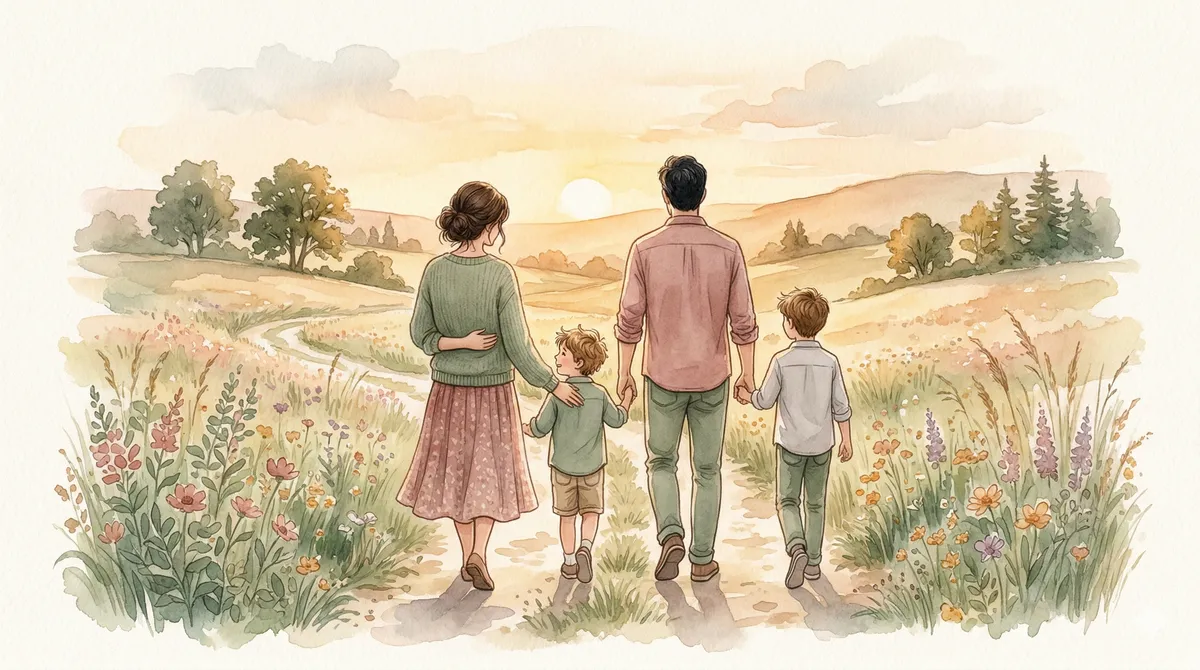
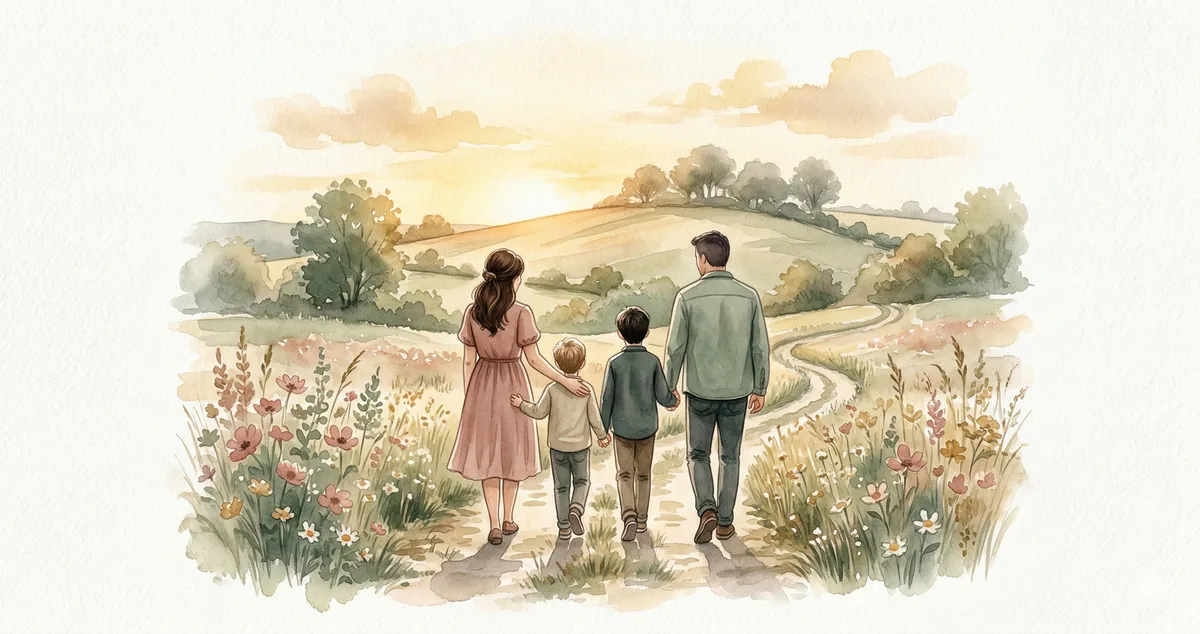
Update hero image and fix mobile menu overlay
- Replace hero illustration with new watercolor family image
- Match hero section background (#F8F9F4) to image edge color for seamless blend
- Add CSS mask on top-right corner to fade sunset tones
- Fix mobile menu transparency: move panel outside header to escape backdrop-blur stacking context

diff --git a/components/modules/navbar.tsx b/components/modules/navbar.tsx
@@ -25,57 +25,59 @@ export function Navbar() {
   }, [isOpen]);
 
   return (
-    <header className="sticky top-0 z-50 border-b border-sage/10 bg-cream/80 backdrop-blur-md">
-      <nav
-        className="container mx-auto flex max-w-5xl items-center justify-between px-4 py-4"
-        aria-label="Navigation principale"
-      >
-        {/* Logo / Nom du site */}
-        <Link
-          href="/"
-          className="font-heading text-xl font-bold text-sage md:text-2xl"
+    <>
+      <header className="sticky top-0 z-50 border-b border-sage/10 bg-cream/80 backdrop-blur-md">
+        <nav
+          className="container mx-auto flex max-w-5xl items-center justify-between px-4 py-4"
+          aria-label="Navigation principale"
         >
-          {siteConfig.name}
-        </Link>
+          {/* Logo / Nom du site */}
+          <Link
+            href="/"
+            className="font-heading text-xl font-bold text-sage md:text-2xl"
+          >
+            {siteConfig.name}
+          </Link>
 
-        {/* Navigation desktop */}
-        <ul className="hidden items-center gap-8 md:flex">
-          {navLinks.map((link) => (
-            <li key={link.href}>
-              <Link
-                href={link.href}
-                className={cn(
-                  "text-sm font-medium transition-colors hover:text-sage",
-                  pathname === link.href
-                    ? "text-sage"
-                    : "text-text-light"
-                )}
-              >
-                {link.label}
-              </Link>
-            </li>
-          ))}
-        </ul>
+          {/* Navigation desktop */}
+          <ul className="hidden items-center gap-8 md:flex">
+            {navLinks.map((link) => (
+              <li key={link.href}>
+                <Link
+                  href={link.href}
+                  className={cn(
+                    "text-sm font-medium transition-colors hover:text-sage",
+                    pathname === link.href
+                      ? "text-sage"
+                      : "text-text-light"
+                  )}
+                >
+                  {link.label}
+                </Link>
+              </li>
+            ))}
+          </ul>
 
-        {/* Bouton menu mobile */}
-        <button
-          type="button"
-          onClick={() => setIsOpen(!isOpen)}
-          className="inline-flex items-center justify-center rounded-lg p-2 text-text-light hover:text-sage md:hidden"
-          aria-expanded={isOpen}
-          aria-label={isOpen ? "Fermer le menu" : "Ouvrir le menu"}
-        >
-          {isOpen ? (
-            <X className="h-6 w-6" />
-          ) : (
-            <Menu className="h-6 w-6" />
-          )}
-        </button>
-      </nav>
+          {/* Bouton menu mobile */}
+          <button
+            type="button"
+            onClick={() => setIsOpen(!isOpen)}
+            className="inline-flex items-center justify-center rounded-lg p-2 text-text-light hover:text-sage md:hidden"
+            aria-expanded={isOpen}
+            aria-label={isOpen ? "Fermer le menu" : "Ouvrir le menu"}
+          >
+            {isOpen ? (
+              <X className="h-6 w-6" />
+            ) : (
+              <Menu className="h-6 w-6" />
+            )}
+          </button>
+        </nav>
+      </header>
 
-      {/* Menu mobile — panneau plein écran */}
+      {/* Menu mobile — panneau plein écran (hors du header pour éviter le contexte backdrop-blur) */}
       {isOpen && (
-        <div className="fixed inset-0 top-[65px] z-40 bg-cream md:hidden">
+        <div className="fixed inset-x-0 top-[65px] bottom-0 z-50 bg-[#FCF9F5] md:hidden">
           <ul className="flex flex-col items-center gap-6 pt-12">
             {navLinks.map((link) => (
               <li key={link.href}>
@@ -95,6 +97,6 @@ export function Navbar() {
           </ul>
         </div>
       )}
-    </header>
+    </>
   );
 }

diff --git a/components/modules/hero.tsx b/components/modules/hero.tsx
@@ -5,7 +5,7 @@ import Link from "next/link";
 
 export function Hero() {
   return (
-    <section className="relative overflow-hidden py-12 md:py-20">
+    <section className="relative overflow-hidden bg-[#F8F9F4] py-12 md:py-20">
       {/* Formes décoratives d'arrière-plan */}
       <div
         className="absolute -top-24 -right-24 h-96 w-96 rounded-full bg-rose-light/20 blur-3xl"
@@ -54,23 +54,23 @@ export function Hero() {
             </div>
           </div>
 
-          {/* Colonne illustration — bords fondus dans le fond */}
+          {/* Colonne illustration — masque doux sur le coin haut-droit */}
           <div
             className="flex justify-center md:-mr-12 md:justify-end lg:-mr-20"
             style={{
               maskImage:
-                "linear-gradient(to right, black 70%, transparent 100%), linear-gradient(to bottom, black 70%, transparent 100%)",
+                "linear-gradient(to bottom, transparent, black 15%), linear-gradient(to left, transparent, black 10%)",
               maskComposite: "intersect",
               WebkitMaskImage:
-                "linear-gradient(to right, black 70%, transparent 100%), linear-gradient(to bottom, black 70%, transparent 100%)",
+                "linear-gradient(to bottom, transparent, black 15%), linear-gradient(to left, transparent, black 10%)",
               WebkitMaskComposite: "destination-in",
             }}
           >
             <Image
               src="/images/hero-famille.webp"
-              alt="Illustration aquarelle d'une famille de dos — une maman brune, un papa et leurs deux garçons — marchant main dans la main sur un chemin de campagne fleuri au coucher du soleil"
+              alt="Illustration aquarelle d'une famille de dos — une maman, un papa et leurs deux garçons — marchant main dans la main sur un chemin de campagne fleuri au coucher du soleil"
               width={1200}
-              height={670}
+              height={634}
               sizes="(max-width: 768px) 100vw, 60vw"
               className="h-auto w-full"
               priority
